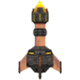
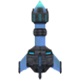
Add Missile Launcher graphic

diff --git a/tools/generate_locations.py b/tools/generate_locations.py
@@ -27,7 +27,7 @@ areas = [
 class ItemImage(StrEnum):
     EnergyTank = "energytank"
     MissileLauncher = "missilelauncher"
-    MissileExpansion = "missilelauncher"
+    MissileExpansion = "missileexpansion"
     WaveBeam = "wavebeam"
     IceBeam = "icebeam"
     PlasmaBeam = "plasmabeam"
@@ -645,7 +645,7 @@ class AreaData(NamedTuple):
     def into_json(self):
         return [omit_empty_lists_and_null({
             "name": self.name,
-            "chest_unopened_img": "images/items/missilelauncher.png",
+            "chest_unopened_img": ItemImage.MissileExpansion.filename(),
             "chest_opened_img": "images/checked.png",
             "children": [room.into_json() for room in self.rooms]
         })]
